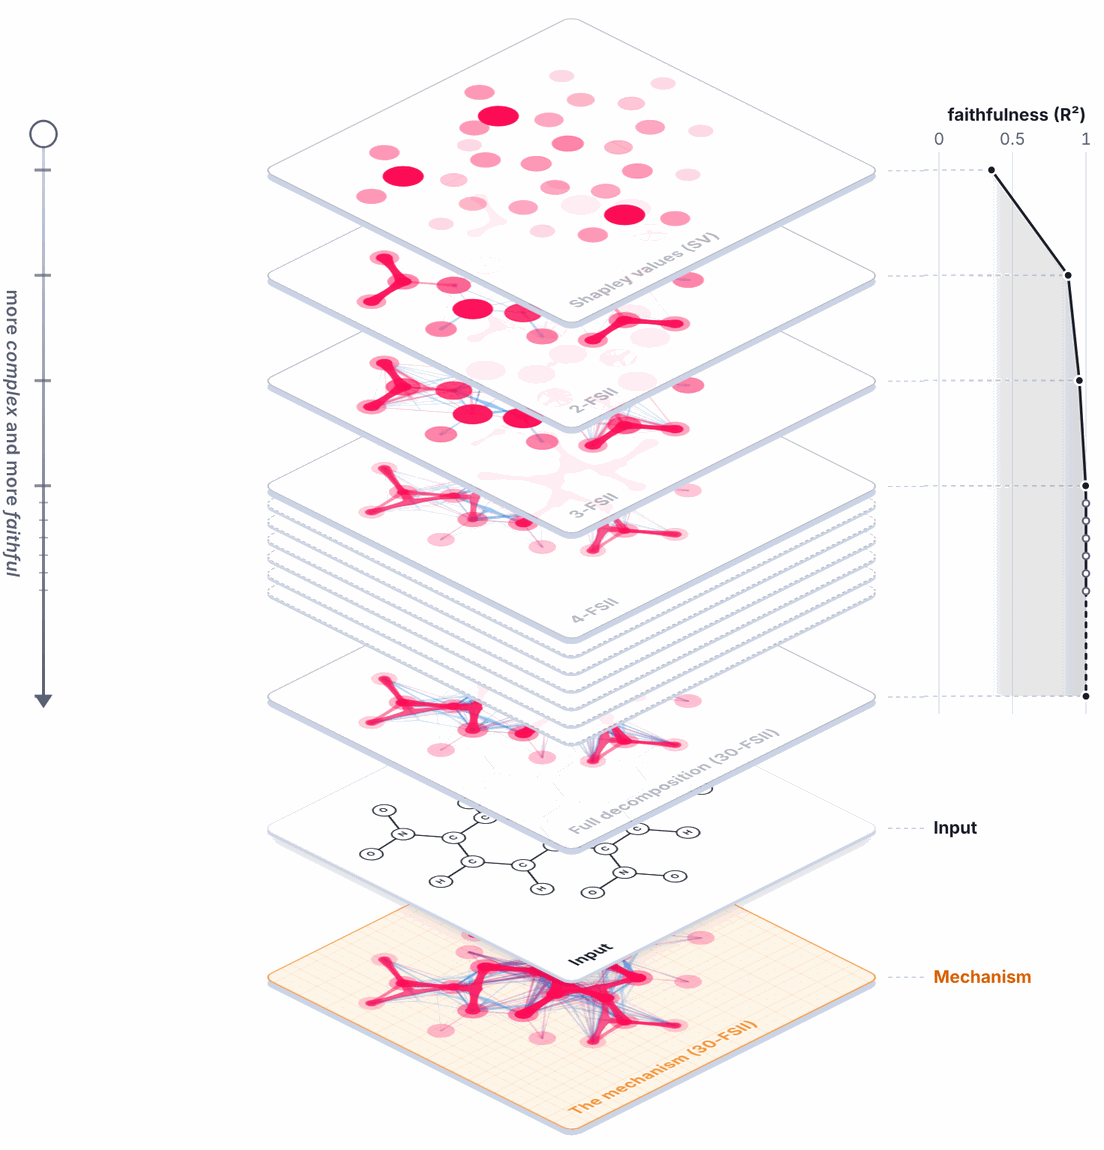
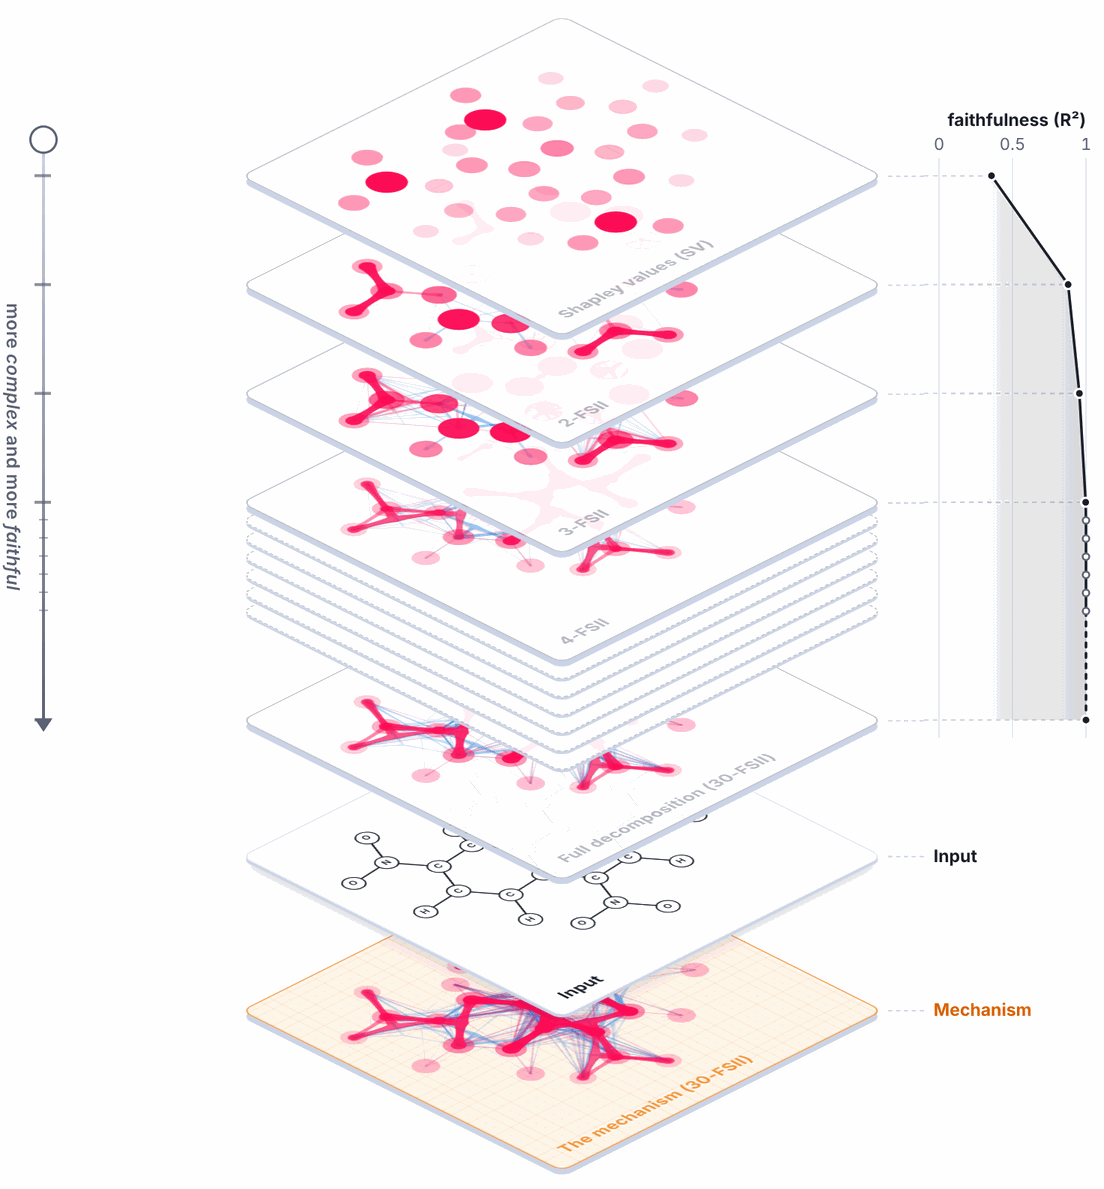
Orders demo: a shorter slide, and the handle's line on to the layer
- Unfolded, a layer pointed at slides out less (0.22 of its width, was
  0.32): it slid along the line of the layers' edges, and seemed to
  continue the layer below it.
- The layer the slider's handle points at has its line on from its left
  corner to the handle, solid, as its row's goes on from its right
  corner to its point in the plot; the layers leave room for it, left of
  them.

Claude-Session: https://claude.ai/code/session_019qiuyEoqTxUYBXqUZ7PZqM

diff --git a/docs/source/demos/orders/assets/demo.js b/docs/source/demos/orders/assets/demo.js
@@ -74,10 +74,11 @@
   // the blank sheets of an example: as many for every example (where it skips as many orders), so
   // that every stack looks as deep
   const BLANKS = 6;
-  // the sheet pointed at slides out of the stack to the side, as it lies and keeping its place in
-  // the stack (the sheets above it still lie over it), and the others and the rows of the ladder
-  // stay where they are: how far it slides, in units of its width
-  const SLIDE = 0.32;
+  // unfolded, the layer pointed at slides out to the side, as it lies and keeping its place among
+  // them (the layers above it still lie over it), and the others and the rows of the ladder stay
+  // where they are: how far it slides, in units of its width; less than would carry its edge onto
+  // the line of the layer's below, which it would then seem to continue
+  const SLIDE = 0.22;
   // pixels: the column of the slider, left of the stack; its line in it; how far above the top
   // sheet its handle rests, when no sheet is out
   const RAIL = 42;
@@ -732,6 +733,9 @@
     thumb.setAttribute("aria-orientation", "vertical");
     thumb.setAttribute("aria-label", "Order of the explanation");
     rail.append(railLine, railLabel, ticks, thumb);
+    // the line of the layer pointed at, on from its left corner to the slider's handle, as its row's
+    // goes on from its right corner to its point in the plot
+    const railLead = el("span", "orders-demo-rail-lead");
     // the stack's window: it starts at the slider's column, so that a stack swiped or slid aside goes
     // out of view there, not under the slider
     const view = el("div", "orders-demo-view");
@@ -740,7 +744,7 @@
     const side = document.createElementNS(SVG, "svg");
     side.setAttribute("class", "orders-demo-side");
     side.setAttribute("role", "img");
-    stage.append(rail, view, ladder, side);
+    stage.append(rail, railLead, view, ladder, side);
     // its frame stays as the examples change (its grid, its ticks and the name of its axis), and what
     // it plots fades
     const sideFrame = add(side, "g", { class: "orders-demo-side-frame" });
@@ -776,7 +780,9 @@
       const ladderWidth = Math.min(narrow ? 71 : 120, width * 0.17);
       const gap = narrow ? 10 : 28;
       const spread = Math.abs(Math.cos(TURN)) + Math.abs(Math.sin(TURN));
-      const room = width - ladderWidth - gap - RAIL;
+      // between the slider and a layer slid out, room for the line from the handle to it
+      const lead = narrow ? 14 : 24;
+      const room = width - ladderWidth - gap - RAIL - lead;
       // the room holds the stack and the sheet slid out of it
       const side = Math.max(110, Math.min(360, room / ((1 + SLIDE) * spread)));
       const sheetHeight = side * TILT * spread;
@@ -795,7 +801,7 @@
         side,
         slideBy,
         ladderLeft: width - ladderWidth,
-        center: RAIL + room / 2 + slideBy / 2,
+        center: RAIL + lead + room / 2 + slideBy / 2,
         height: Math.ceil(stack + 2 * THICKNESS + 16),
         sheetHeight,
       };
@@ -1622,6 +1628,15 @@
       thumb.setAttribute("aria-valuemax", String(stops.length - 1));
       thumb.setAttribute("aria-valuenow", String(at));
       thumb.setAttribute("aria-valuetext", at === 0 ? "none" : stopName(stops[at].item));
+      // the handle's line on to the layer it brought out, at the height of the layer's left corner
+      const led = at === 0 ? null : stops[at].item;
+      railLead.classList.toggle("orders-demo-rail-lead-on", Boolean(led));
+      if (led) {
+        const [lx, ly] = corners(places[items.indexOf(led)]).reduce((a, b) => (b[0] < a[0] ? b : a));
+        const from = RAIL_LINE + 10;
+        railLead.style.translate = `${roundTo(from, 2)}px ${roundTo(ly, 2)}px`;
+        railLead.style.width = `${roundTo(Math.max(0, lx - from - 4), 2)}px`;
+      }
 
       project(projecting() && out ? sheetItems()[active] : null, anchors);
     }

diff --git a/docs/source/demos/orders/assets/demo.css b/docs/source/demos/orders/assets/demo.css
@@ -1745,6 +1745,27 @@ body[data-theme="dark"] .orders-demo {
   transition: none;
 }
 
+/* the line of the layer pointed at, from the slider's handle to its left corner (demo.js), solid as
+   its row's on the right */
+.orders-demo-rail-lead {
+  position: absolute;
+  z-index: 60;
+  top: 0;
+  left: 0;
+  width: 0;
+  border-top: 1px solid var(--orders-ink);
+  opacity: 0;
+  pointer-events: none;
+  transition:
+    translate var(--orders-move) var(--orders-settle),
+    width var(--orders-move) var(--orders-settle),
+    opacity var(--orders-duration) var(--orders-ease);
+}
+
+.orders-demo-rail-lead-on {
+  opacity: 1;
+}
+
 /* the ladder: a row per sheet, beside its right corner: its line from the corner, on to the sheet's
    point in the plot (demo.js), and a button for the keyboard, which the card above speaks for (the
    ring on the plot its focus). Unfolded, the rows of the input and of the mechanism name them,
